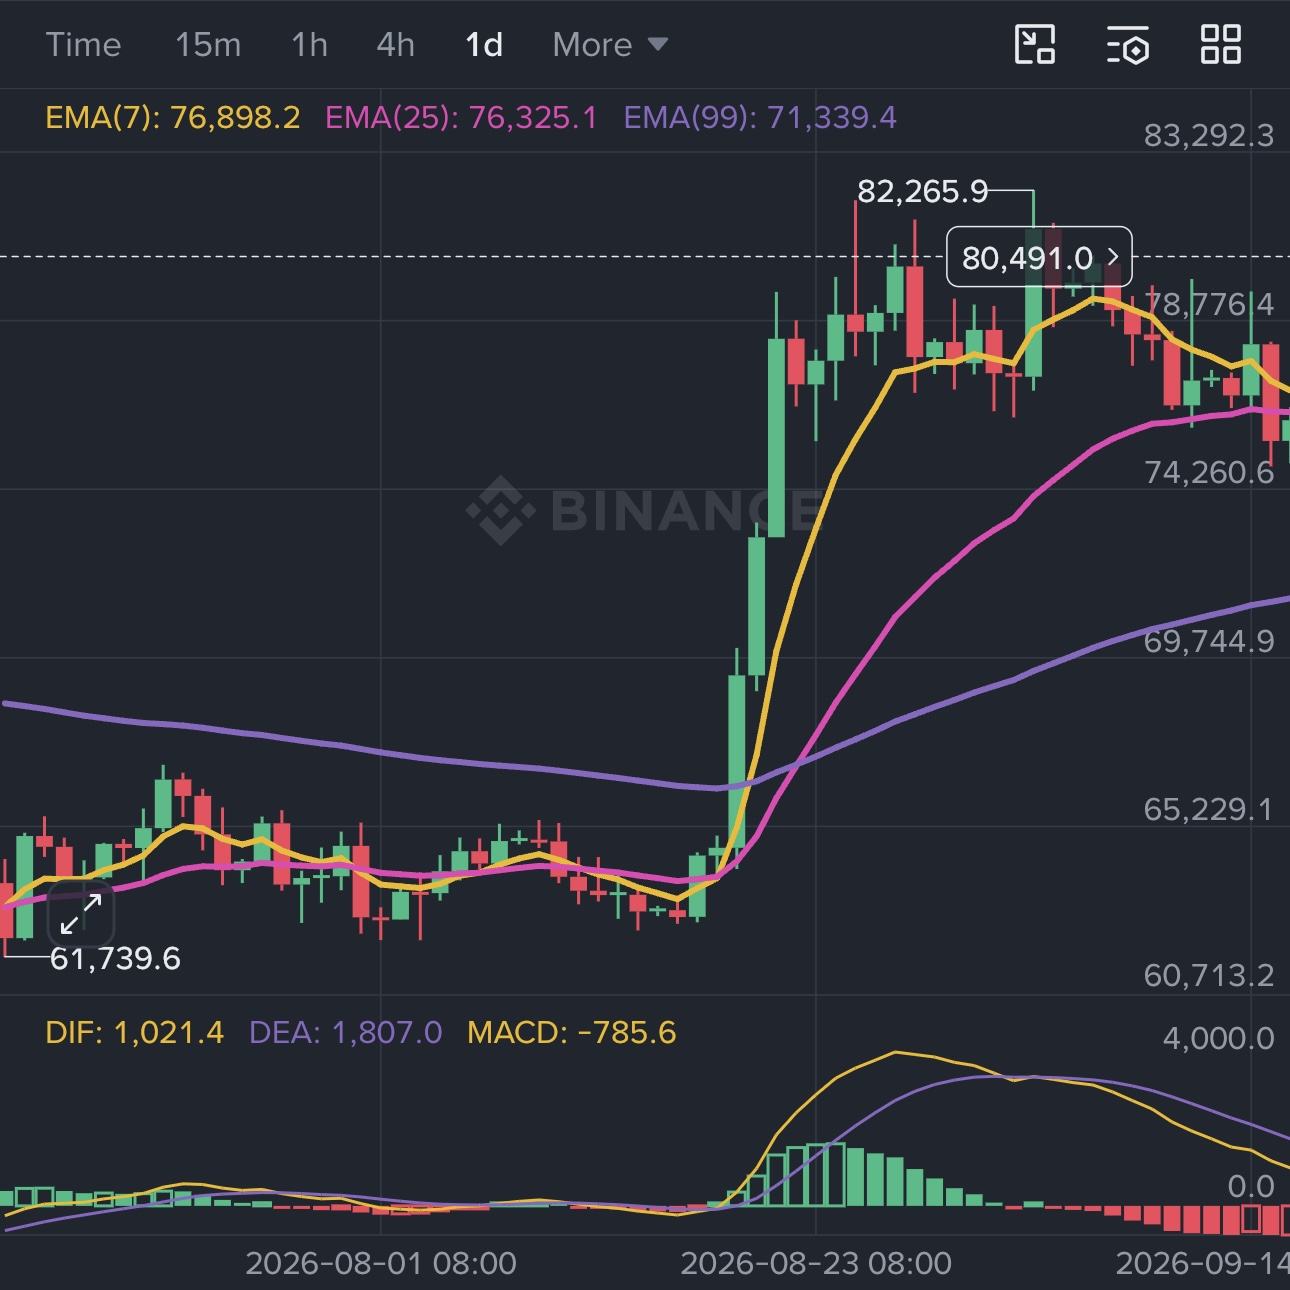
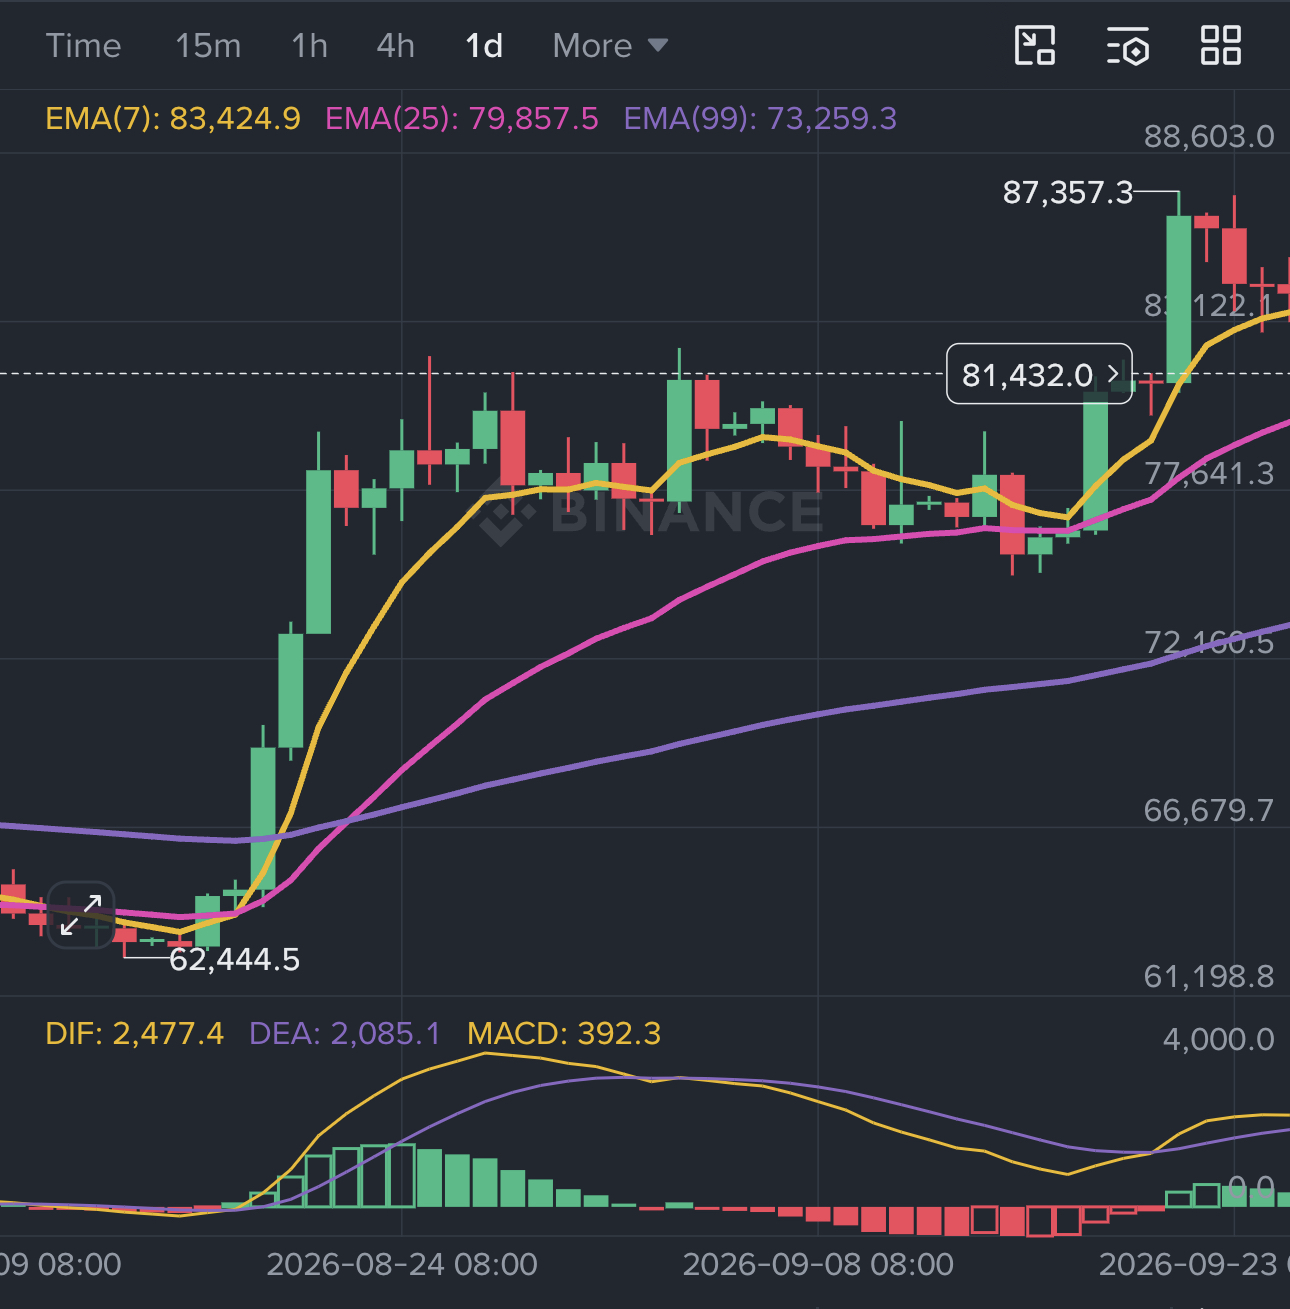
Update BTC MA stages with MACD context

diff --git a/book/advanced/moving-average-and-momentum.md b/book/advanced/moving-average-and-momentum.md
@@ -212,7 +212,7 @@ This is a range, not a clean trend. A crossover system can lose repeatedly here 
 
 ![BTC MA range to early breakout](assets/btc-ma-range-to-early-breakout.png)
 
-This image shows a transition from **case 7**—MA(7) and MA(25) tangled while MA(99) falls—through **case 1**, as MA(7) rises above MA(25), and toward **case 5** at the right side, where `EMA(7) > EMA(25) > EMA(99)`. It shows improving momentum, not a confirmed long-term trend change.
+This image shows a transition from **case 7**—MA(7) and MA(25) tangled while MA(99) falls—through **case 1**, as MA(7) rises above MA(25), and toward **case 5** at the right side, where `EMA(7) > EMA(25) > EMA(99)`. During the long range, MACD stays close to zero; it rises only when the breakout begins. This is improving momentum, not a confirmed long-term trend change.
 
 ### Stage 2: breakout and acceleration
 
@@ -222,7 +222,7 @@ Around 20 August, price breaks above the upper part of the range near 68,000 wit
 - EMA(25), the pink line, bends upward after it and begins to separate from the slow average.
 - EMA(99), the purple line, turns more slowly but also begins rising.
 - The averages form **bullish alignment**: `EMA(7) > EMA(25) > EMA(99)`, with all three generally rising.
-- DIF crosses above DEA, the two lines move above zero, and the histogram expands with tall green bars.
+- DIF crosses above DEA, the two lines move above zero, and the histogram expands with tall green bars. In the replacement screenshot, the MACD lines rise toward 4,000, showing a sharp increase in momentum after the breakout.
 
 The three MACD observations describe the same acceleration from different angles: a line crossover, a move above the zero line, and increasing distance between DIF and DEA. Together with the price breakout and participation, they make a stronger continuation hypothesis than any one signal alone. They still arrive after the move has started, so they are confirmation rather than a guaranteed early entry.
 
@@ -237,6 +237,8 @@ Near the 82,000 area, price makes another high, but the force of the advance bec
 
 This says that price is still rising while measured momentum is weakening. It does not say that the top is already confirmed. A strong trend can continue after divergence. The useful response is to stop treating every new high as proof of stronger demand, then watch structure, support, and the next pullback.
 
+MACD also begins to pull back during this stage. The histogram changes from expanding green bars to shrinking bars and then red bars, while DIF moves toward DEA. The move is losing momentum even though price has not fully reversed yet.
+
 ### Stage 4: weakening and possible reversal
 
 In the later screenshot, price has pulled back from the high. The fast EMA(7) has turned down and price has moved below it, while EMA(25) is nearby and EMA(99) is still rising. This is a weakening short-term picture, but the longer trend is not automatically broken. A decisive close below EMA(25), loss of a meaningful higher low, and failure to reclaim the level would provide stronger evidence of a structural change.
@@ -246,6 +248,8 @@ The MACD numbers make the direction clear. The panel shows `DIF: 1,021.4` and `D
 `DIF − DEA = 1,021.4 − 1,807.0 = −785.6`
 
 That negative value matches the displayed `MACD: −785.6` under this app’s convention. The negative histogram supports weakening or bearish momentum; it does not by itself prove that price must continue down. The current price shown in the screenshot is about 80,536, so descriptions such as 78,776 should not be substituted for the value actually displayed in the image.
+
+At this point the histogram is red and moving back toward the zero line after the earlier positive expansion. That shows that bearish momentum is no longer accelerating as quickly, but it does not restore the bullish trend by itself. Price structure and the MA levels still decide whether this is a pause or a deeper reversal.
 
 ![BTC moving-average trend weakening](assets/btc-ma-trend-weakening.png)
 
